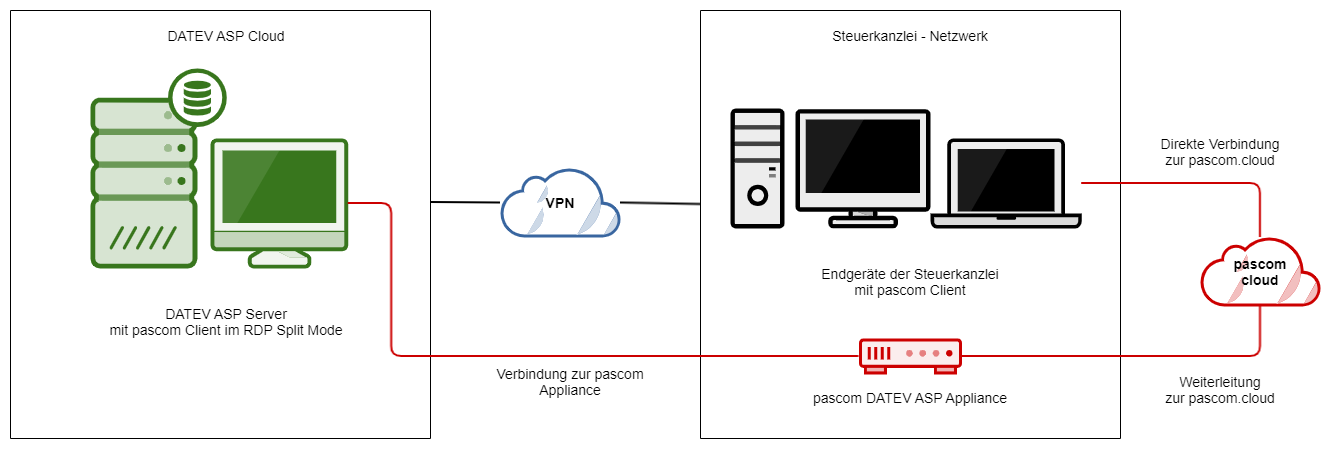
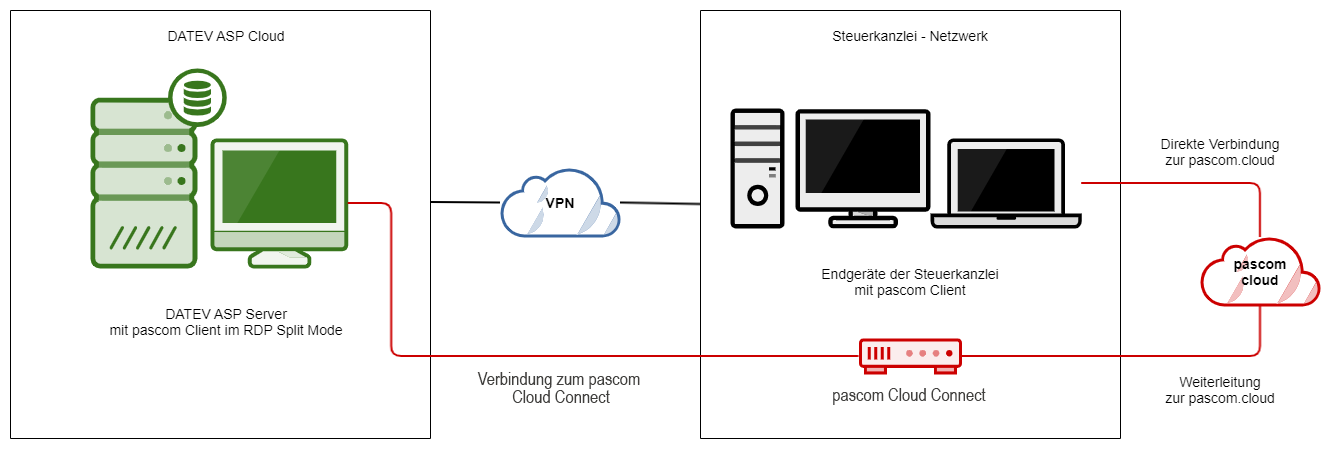
DATEV docu changes - reported from tschmidt

Changed region(s): [[0.3672, 0.7948, 0.4896, 0.8865], [0.6119, 0.8559, 0.7649, 0.8865]]

diff --git a/site/content/modules/datev/_index.de.md b/site/content/modules/datev/_index.de.md
@@ -10,20 +10,20 @@ weight: 50
 
 ## Konzept
 
-Die DATEV-Schnittstelle ermöglicht es bei einem eingehenden Anruf die Anrufdaten in Ihre *DATEV Arbeitsplatz pro*-Software zu übertragen. Ebenso können Sie aus dem DATEV-Telefonbuch Gespräche starten. Voraussetzung ist die Verwendung von *DATEV Arbeitsplatz pro* mit dem *Telefoniemodul*.
+Die DATEV-Schnittstelle ermöglicht es bei einem eingehenden Anruf die Anrufdaten in Ihre *DATEV Arbeitsplatz pro*-Software zu übertragen. Ebenso können Sie aus dem DATEV-Telefonbuch Gespräche starten. Voraussetzung ist die Verwendung von *DATEV Arbeitsplatz pro* mit der *Telefonie Basis*.
 
-## pascom Cloud mit DATEV ASP Cloud verwenden
+## pascom Cloud mit DATEV Cloud (DATEVasp und PARTNERasp) verwenden
 
-Datev bietet ihre Produkte auch als Datev ASP in der Cloud an. Dies bedeutet, dass Datev einen Server in ihrem Rechenzentrum bereit stellt, auf dem sich Kunden (Steuerberater, Rechtsanwalt usw) via Remotedesktop verbinden können. Von dieser Remotesitzung aus, kann nur über Proxy (port 80 und 443) ins Internet kommuniziert werden. Das Netz der Kanzlei ist jedoch mit VPN an die Datev ASP angebunden und hat keinerlei Einschränkungen der Ports. Bei diesem Szenario, kann man sich über die Remotesitung zwar ins Kanzleinetz aber nicht zur pascom.cloud verbinden.
+DATEV bietet ihre Produkte auch als Software as a Service (SaaS) in der Cloud an. Dies bedeutet, dass DATEV einen Server in ihrem Rechenzentrum bereit stellt, auf dem sich Kunden (Steuerberater, Rechtsanwalt usw) via Remotedesktop verbinden können. Von dieser Remotesitzung aus, kann nur über Proxy (port 80 und 443) ins Internet kommuniziert werden. Das Netz der Kanzlei ist jedoch mit VPN an die DATEV ASP angebunden und hat keinerlei Einschränkungen der Ports. Bei diesem Szenario, kann man sich über die Remotesitung zwar ins Kanzleinetz aber nicht zur pascom.cloud verbinden.
 
-Abhilfe schafft die pascom DATEV ASP Appliance, welche als Gateway in der Kanzlei, die Daten an die pascom.cloud weiterleitet.
+Abhilfe schafft der pascom Cloud Connect, welcher als Gateway in der Kanzlei, die Daten an die pascom.cloud weiterleitet.
 
 ### Wie funktioniert das?
 
-![pascom DATEV ASP Appliance](datev_asp_appliance_de.png)
+![pascom Cloud Connect](datev_asp_appliance_de.png)
 
 {{% notice info %}}
-Weitere Informationen zu der pascom DATEV ASP Appliance für Ihr Unternehmen erhalten Sie von unserem Vertrieb.
+Weitere Informationen zum pascom Cloud Connect für Ihr Unternehmen erhalten Sie von unserem Vertrieb.
 {{% /notice %}}
 
 ## Konfiguration
@@ -32,7 +32,7 @@ Zur Vorbereitung muss zunächst ein *Generisches Label* angelegt werden. Klicken
 
 Anschließend ist die DATEV-Schnittstelle automatisch aktiv sobald Sie neben *DATEV Arbeitsplatz pro* mit Telefoniemodul den [pascom Client]({{< relref "clients/desktop-installation">}}) installieren.
 
-Sollte das Label nicht angelegt sein, erscheint beim Übertragen der Anrufdaten in Datev während einem aktiven Anruf mit dem pascom Client folgende Meldung:
+Sollte das Label nicht angelegt sein, erscheint beim Übertragen der Anrufdaten in DATEV während einem aktiven Anruf mit dem pascom Client folgende Meldung:
 
 ![Kein DATEV-Label konfiguriert](datev-label.de.png)
 

diff --git a/site/content/modules/datev/_index.en.md b/site/content/modules/datev/_index.en.md
@@ -10,13 +10,13 @@ weight: 50
 
 ## Concept
 
-The DATEV interface enables you to transfer incoming call data into your *DATEV Arbeitsplatz pro* software. What's more, the interface also allows DATEV users to start calls directly from the DATEV telephone book providing they are using the *DATEV Arbeitsplatz pro (DATEV Workstation Pro)* with the *Telefoniemodul (Telephony module)*. 
+The DATEV interface enables you to transfer incoming call data into your *DATEV Arbeitsplatz pro* software. What's more, the interface also allows DATEV users to start calls directly from the DATEV telephone book providing they are using the *DATEV Arbeitsplatz pro (DATEV Workstation Pro)* with the *Telefonie Basis (Telephony module)*. 
 
-## Use pascom Cloud with DATEV ASP Cloud
+## Use pascom Cloud with DATEV Cloud (DATEVasp und PARTNERasp)
 
-Datev also offers its products as Datev ASP in the cloud. This means that Datev provides a server in its data center where customers (tax advisor, lawyer, etc.) can connect via remote desktop. From this remote session, communication to the Internet is only possible via proxy (port 80 and 443). However, the law firm's network is connected to Datev ASP via VPN and has no port restrictions. In this scenario, you can connect to the office network via the remote session, but not to pascom.cloud.
+Datev also offers its products as Software as a Service (SaaS). This means that Datev provides a server in its data center where customers (tax advisor, lawyer, etc.) can connect via remote desktop. From this remote session, communication to the Internet is only possible via proxy (port 80 and 443). However, the law firm's network is connected to Datev ASP via VPN and has no port restrictions. In this scenario, you can connect to the office network via the remote session, but not to pascom.cloud.
 
-The pascom DATEV ASP Appliance provides a remedy by acting as a gateway in the law firm and forwarding the data to the pascom.cloud.
+The pascom cloud connect provides a remedy by acting as a gateway in the law firm and forwarding the data to the pascom.cloud.
 
 ### How does this work?
 
